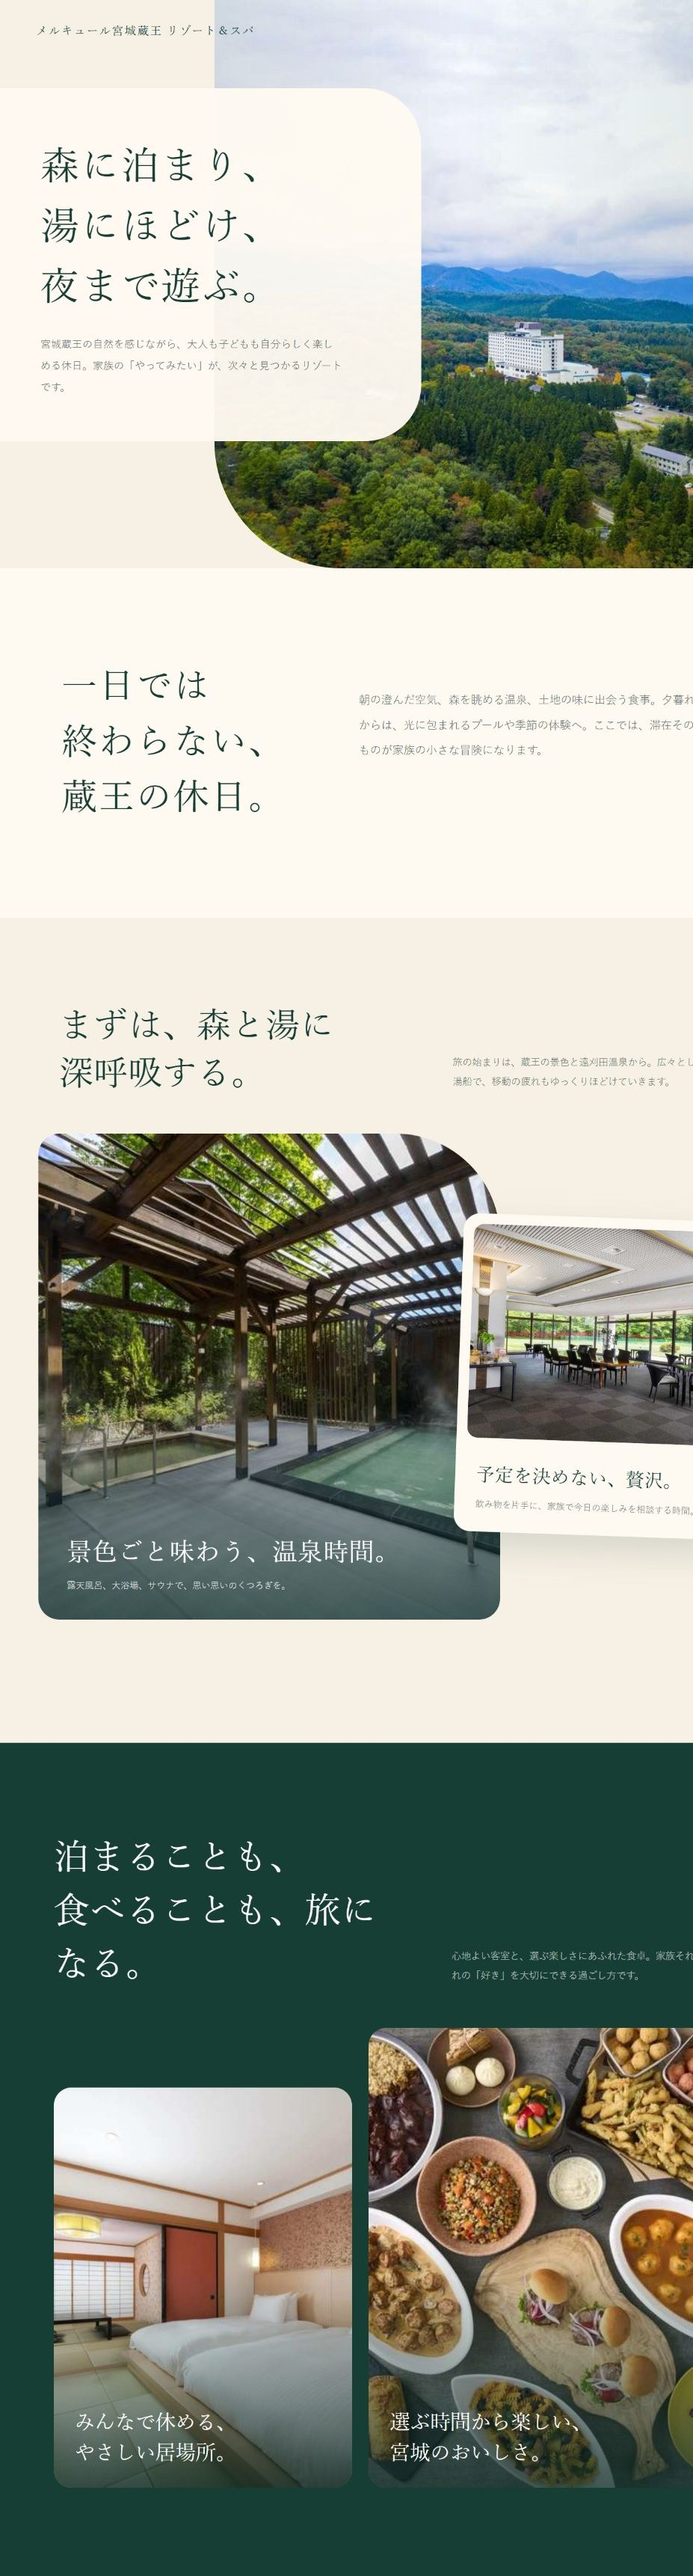
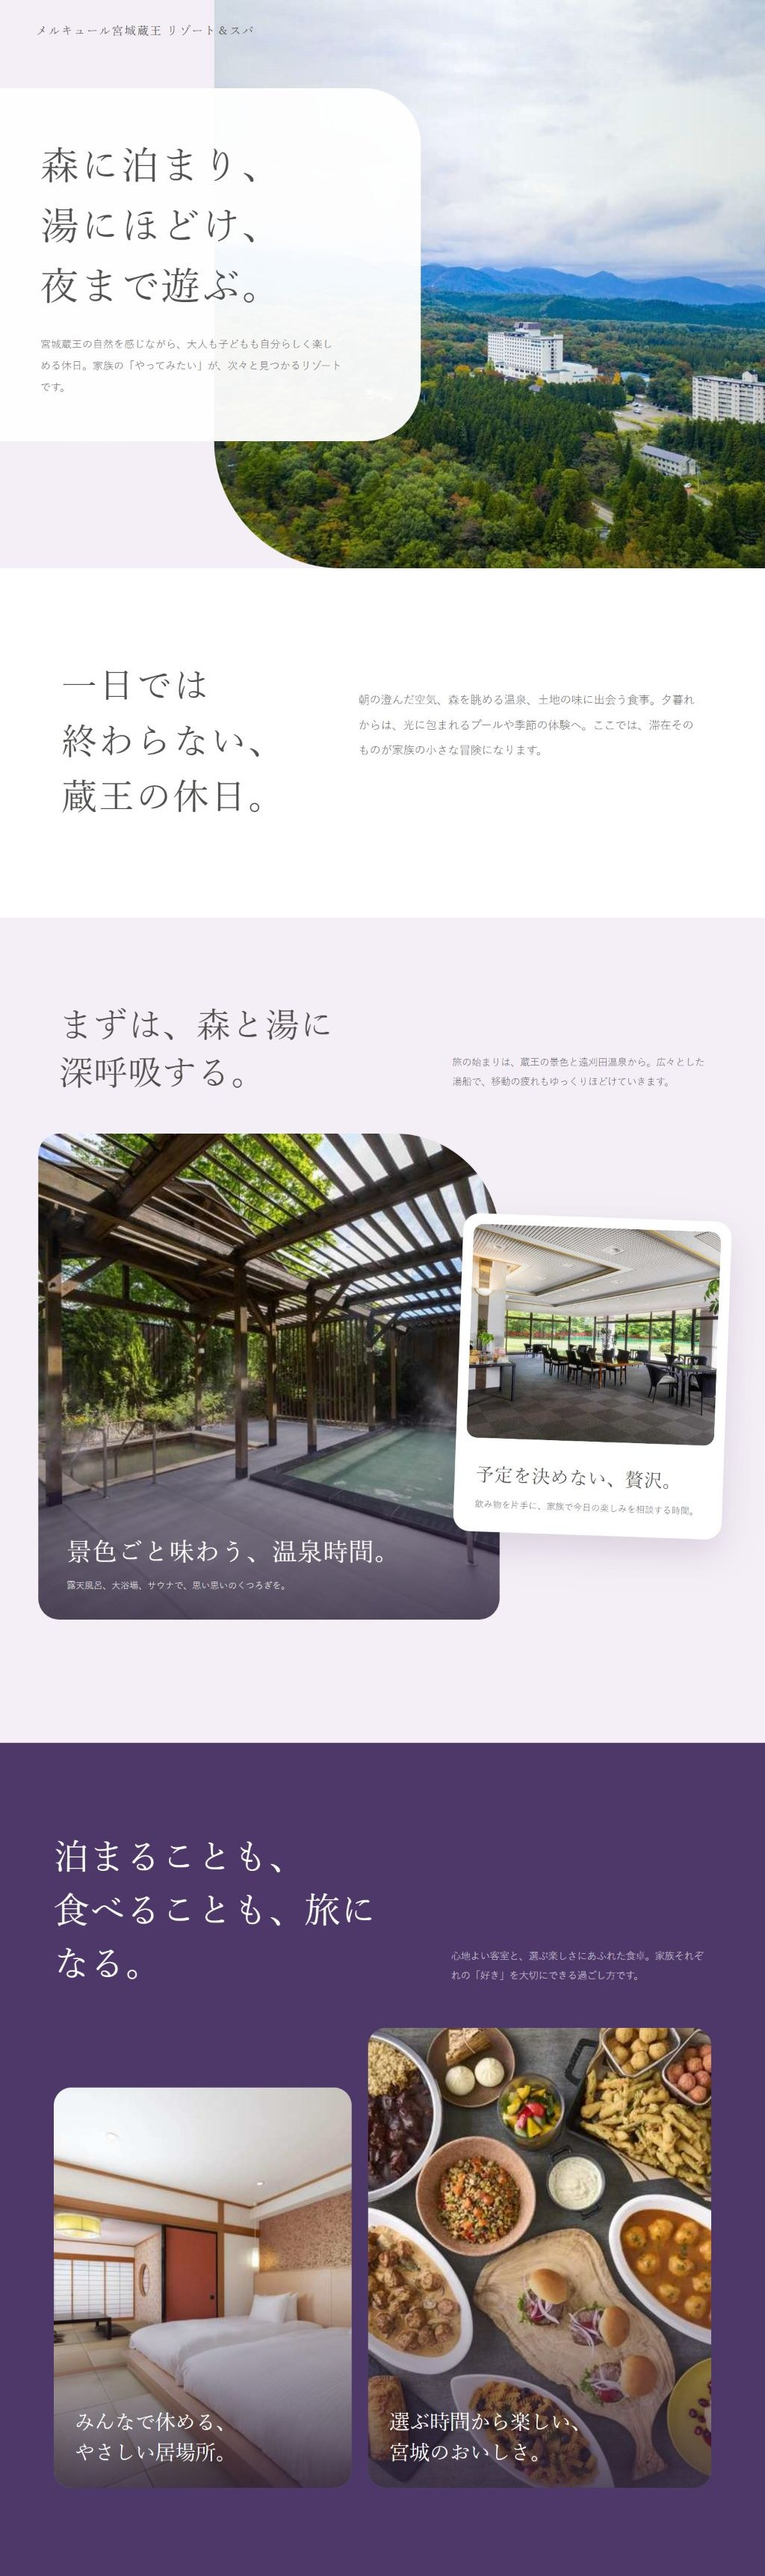
メルキュール紹介を新版画像に更新(?v=5)＋公式リンクを大きく／温泉カード写真を湯船大きめに切り直し(?v=2)
- assets/img/mercure/full.jpg を新版(1024x3445 clean-final)に更新、onsen-guide参照を?v=5
- メルキュール公式サイトリンク(.mercure-link)を拡大（font16.5px/padding18px/影強め）
- 遠刈田温泉ガイドのカード写真(assets/img/mercure/onsen.jpg)を露天風呂の湯船が大きく写る構図に切り直し、index/mobile/simpleを?v=2に。simple/mobileの温泉写真もメルキュール露天風呂に統一

diff --git a/mobile.html b/mobile.html
@@ -180,7 +180,7 @@ html,body{overflow-x:hidden}
     <div class="sec-head-title">おすすめ情報</div>
   </div>
   <div class="rec-scroll">
-    <a class="rec-card" href="pages/onsen-guide.html"><img class="rec-photo" src="assets/img/mercure/onsen.jpg?v=1" alt="遠刈田温泉ガイド"><p class="rec-title">遠刈田温泉ガイド</p><p class="rec-sub">スキーの後は温泉でリラックス</p></a>
+    <a class="rec-card" href="pages/onsen-guide.html"><img class="rec-photo" src="assets/img/mercure/onsen.jpg?v=2" alt="遠刈田温泉ガイド"><p class="rec-title">遠刈田温泉ガイド</p><p class="rec-sub">スキーの後は温泉でリラックス</p></a>
     <a class="rec-card" href="pages/gourmet.html"><img class="rec-photo" src="https://kmefuzynadoayvcmknxp.supabase.co/storage/v1/object/public/site-assets/home/1785162627972-______.jpg" alt="周辺グルメ情報"><p class="rec-title">周辺グルメ情報</p><p class="rec-sub">おすすめランチ・カフェ</p></a>
     <a class="rec-card" href="pages/zao-ski-info.html"><img class="rec-photo" src="assets/img/zao-ski.jpg" alt="蔵王のスキー場情報"><p class="rec-title">蔵王のスキー場情報</p><p class="rec-sub">ゲレンデ・積雪・天気をチェック</p></a>
     <a class="rec-card" href="pages/yatsumorin.html"><img class="rec-photo" src="assets/img/yatsumorin-promo.jpg?v=2" alt="やつもりん" style="object-position:50% 0%"><p class="rec-title">やつもりん（公式キャラ）</p><p class="rec-sub">8つ森レンタルの公式キャラを見る</p></a>

diff --git a/simple/mobile.html b/simple/mobile.html
@@ -181,7 +181,7 @@ html,body{overflow-x:hidden}
     <div class="sec-head-title">おすすめ情報</div>
   </div>
   <div class="rec-scroll">
-    <a class="rec-card" href="pages/onsen-guide.html"><img class="rec-photo" src="../assets/img/onsen.jpg" alt="遠刈田温泉ガイド"><p class="rec-title">遠刈田温泉ガイド</p><p class="rec-sub">スキーの後は温泉でリラックス</p></a>
+    <a class="rec-card" href="pages/onsen-guide.html"><img class="rec-photo" src="../assets/img/mercure/onsen.jpg?v=2" alt="遠刈田温泉ガイド"><p class="rec-title">遠刈田温泉ガイド</p><p class="rec-sub">スキーの後は温泉でリラックス</p></a>
     <a class="rec-card" href="pages/gourmet.html"><img class="rec-photo" src="../assets/img/home/1785162627972-______.jpg" alt="周辺グルメ情報"><p class="rec-title">周辺グルメ情報</p><p class="rec-sub">おすすめランチ・カフェ</p></a>
     <a class="rec-card" href="pages/zao-ski-info.html"><img class="rec-photo" src="../assets/img/zao-ski.jpg" alt="蔵王のスキー場情報"><p class="rec-title">蔵王のスキー場情報</p><p class="rec-sub">ゲレンデ・積雪・天気をチェック</p></a>
     <a class="rec-card" href="pages/yatsumorin.html"><img class="rec-photo" src="../assets/img/yatsumorin-promo.jpg?v=2" alt="やつもりん" style="object-position:50% 0%"><p class="rec-title">やつもりん（公式キャラ）</p><p class="rec-sub">8つ森レンタルの公式キャラを見る</p></a>

diff --git a/simple/pages/onsen-guide.html b/simple/pages/onsen-guide.html
@@ -32,7 +32,7 @@
   .mercure-embed{width:100%;margin:12px 0}
 }
 .mercure-cap{font-size:11.5px;line-height:1.7;color:#8a6a1f;background:#fff8e8;border:1px solid #f0b429;border-radius:10px;padding:10px 12px;margin:4px 0 10px}
-.mercure-link{display:block;text-align:center;background:#1c3d2e;color:#fff;font-weight:800;font-size:14px;padding:14px;border-radius:12px;margin:12px 0 6px;box-shadow:0 4px 12px rgba(20,40,60,.16)}
+.mercure-link{display:block;text-align:center;background:#1c3d2e;color:#fff;font-weight:800;font-size:16.5px;padding:18px 16px;border-radius:14px;margin:16px 0 8px;box-shadow:0 6px 16px rgba(20,40,60,.20)}
 .mercure-link:hover{background:#163021}
 </style>
 </head>
@@ -67,7 +67,7 @@
     </div>
 
     <div class="og-h">提携ホテル：メルキュール宮城蔵王</div>
-    <img id="mercure-embed" class="mercure-embed" src="../../assets/img/mercure/full.jpg?v=4" alt="メルキュール宮城蔵王リゾート＆スパ 紹介ページ案" loading="lazy">
+    <img id="mercure-embed" class="mercure-embed" src="../../assets/img/mercure/full.jpg?v=5" alt="メルキュール宮城蔵王リゾート＆スパ 紹介ページ案" loading="lazy">
     <a class="mercure-link" href="https://mercure-miyagizao-resortandspa.jp/" target="_blank" rel="noopener">🏨 メルキュール宮城蔵王 公式サイトを見る ›</a>
 
     <div class="wizard-actions" style="margin-top:18px">

diff --git a/pages/onsen-guide.html b/pages/onsen-guide.html
@@ -35,7 +35,7 @@
   .mercure-embed{width:100%;margin:12px 0}
 }
 .mercure-cap{font-size:11.5px;line-height:1.7;color:#8a6a1f;background:#fff8e8;border:1px solid #f0b429;border-radius:10px;padding:10px 12px;margin:4px 0 10px}
-.mercure-link{display:block;text-align:center;background:#1c3d2e;color:#fff;font-weight:800;font-size:14px;padding:14px;border-radius:12px;margin:12px 0 6px;box-shadow:0 4px 12px rgba(20,40,60,.16)}
+.mercure-link{display:block;text-align:center;background:#1c3d2e;color:#fff;font-weight:800;font-size:16.5px;padding:18px 16px;border-radius:14px;margin:16px 0 8px;box-shadow:0 6px 16px rgba(20,40,60,.20)}
 .mercure-link:hover{background:#163021}
 </style>
 </head>
@@ -70,7 +70,7 @@
     </div>
 
     <div class="og-h">提携ホテル：メルキュール宮城蔵王</div>
-    <img id="mercure-embed" class="mercure-embed" src="../assets/img/mercure/full.jpg?v=4" alt="メルキュール宮城蔵王リゾート＆スパ 紹介ページ案" loading="lazy">
+    <img id="mercure-embed" class="mercure-embed" src="../assets/img/mercure/full.jpg?v=5" alt="メルキュール宮城蔵王リゾート＆スパ 紹介ページ案" loading="lazy">
     <a class="mercure-link" href="https://mercure-miyagizao-resortandspa.jp/" target="_blank" rel="noopener">🏨 メルキュール宮城蔵王 公式サイトを見る ›</a>
   </div>
 </div>

diff --git a/index.html b/index.html
@@ -324,7 +324,7 @@ img{display:block}
     </div>
     <div class="rec-scroll">
       <a class="rec-card" href="pages/onsen-guide.html">
-        <img class="rec-photo" src="assets/img/mercure/onsen.jpg?v=1" alt="遠刈田温泉ガイド">
+        <img class="rec-photo" src="assets/img/mercure/onsen.jpg?v=2" alt="遠刈田温泉ガイド">
         <p class="rec-title">遠刈田温泉ガイド</p>
         <p class="rec-sub">スキーの後は温泉でリラックス</p>
       </a>
@@ -483,7 +483,7 @@ window.__yatsumoriRebind = function () {
       var t = card.querySelector(".rec-title"); if (t && title) t.textContent = title;
       var s = card.querySelector(".rec-sub"); if (s && sub) s.textContent = sub;
     };
-    place(pickHref("onsen"), 0, null, null, "assets/img/mercure/onsen.jpg?v=1", "遠刈田温泉ガイド");
+    place(pickHref("onsen"), 0, null, null, "assets/img/mercure/onsen.jpg?v=2", "遠刈田温泉ガイド");
     place(pickHref("gourmet"), 1);
     place(pickHref("zao-ski"), 2);
     place(pickHref("yatsumorin"), 3, "やつもりん（公式キャラ）", "8つ森レンタルの公式キャラを見る", "assets/img/yatsumorin-promo.jpg?v=2", "やつもりん");
